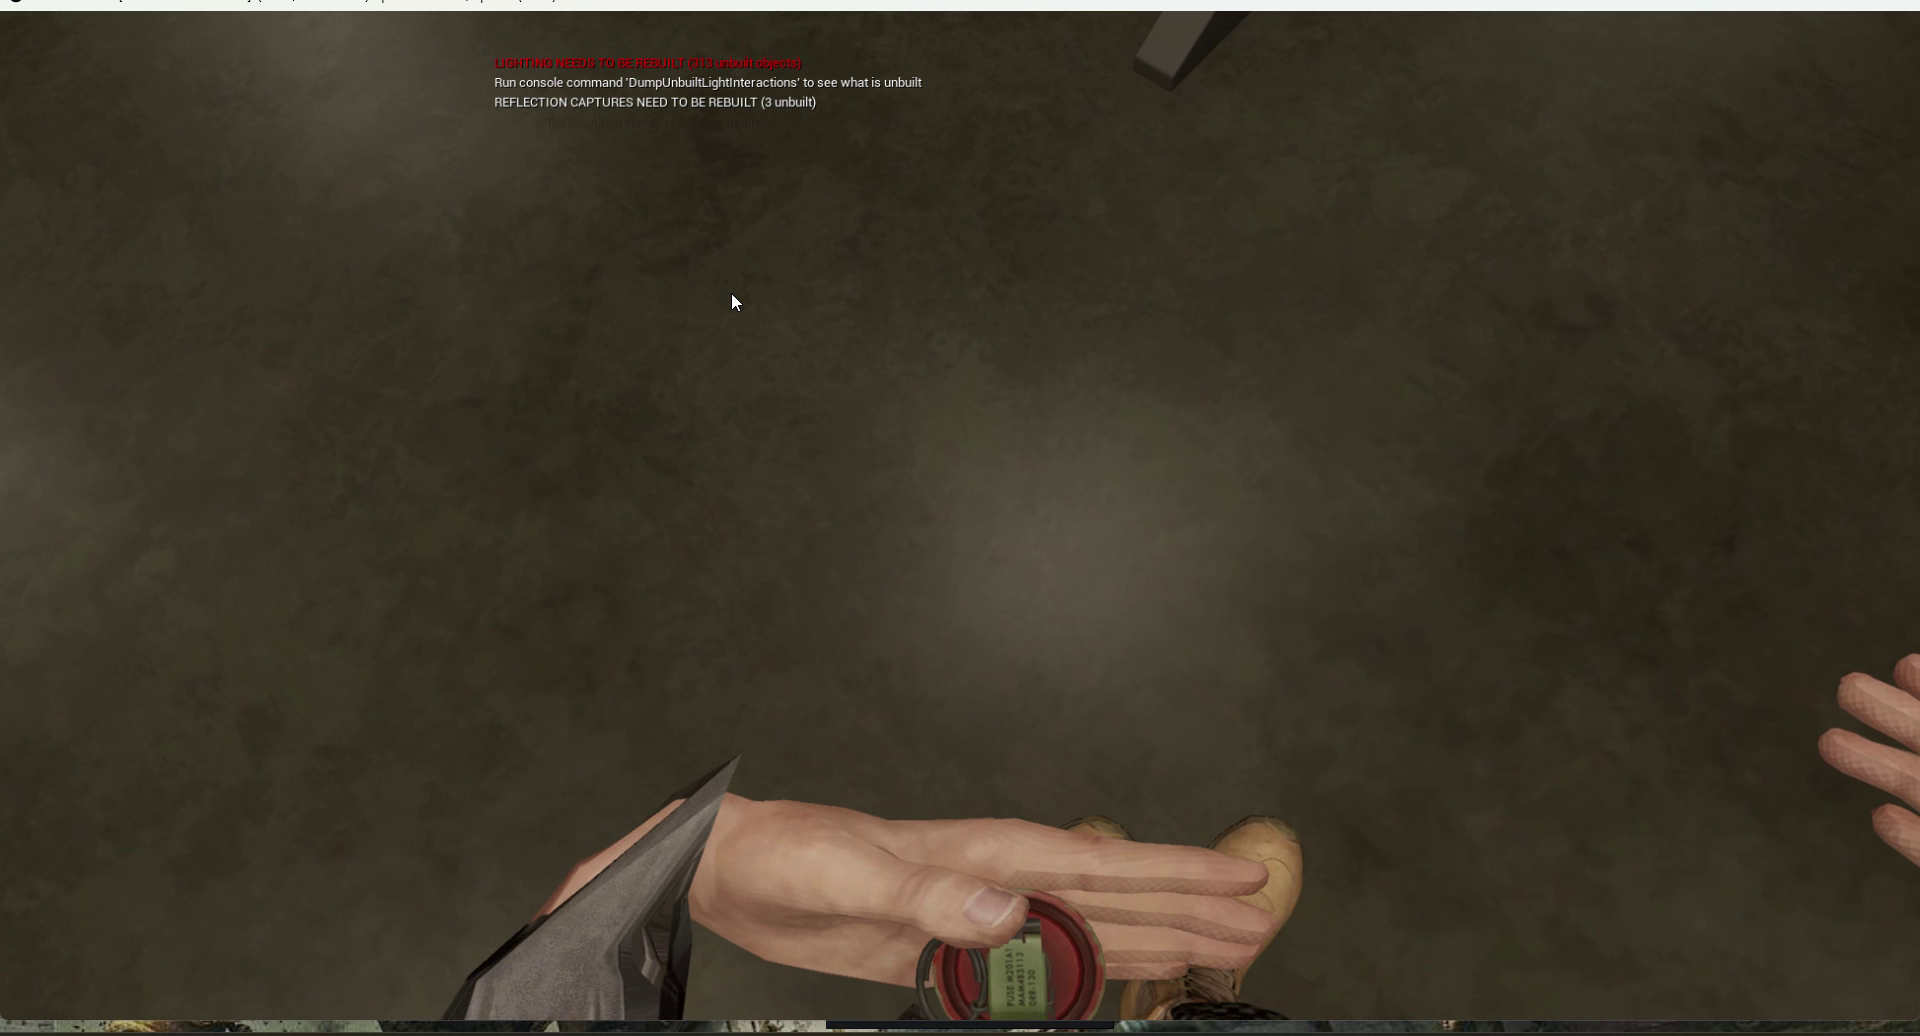
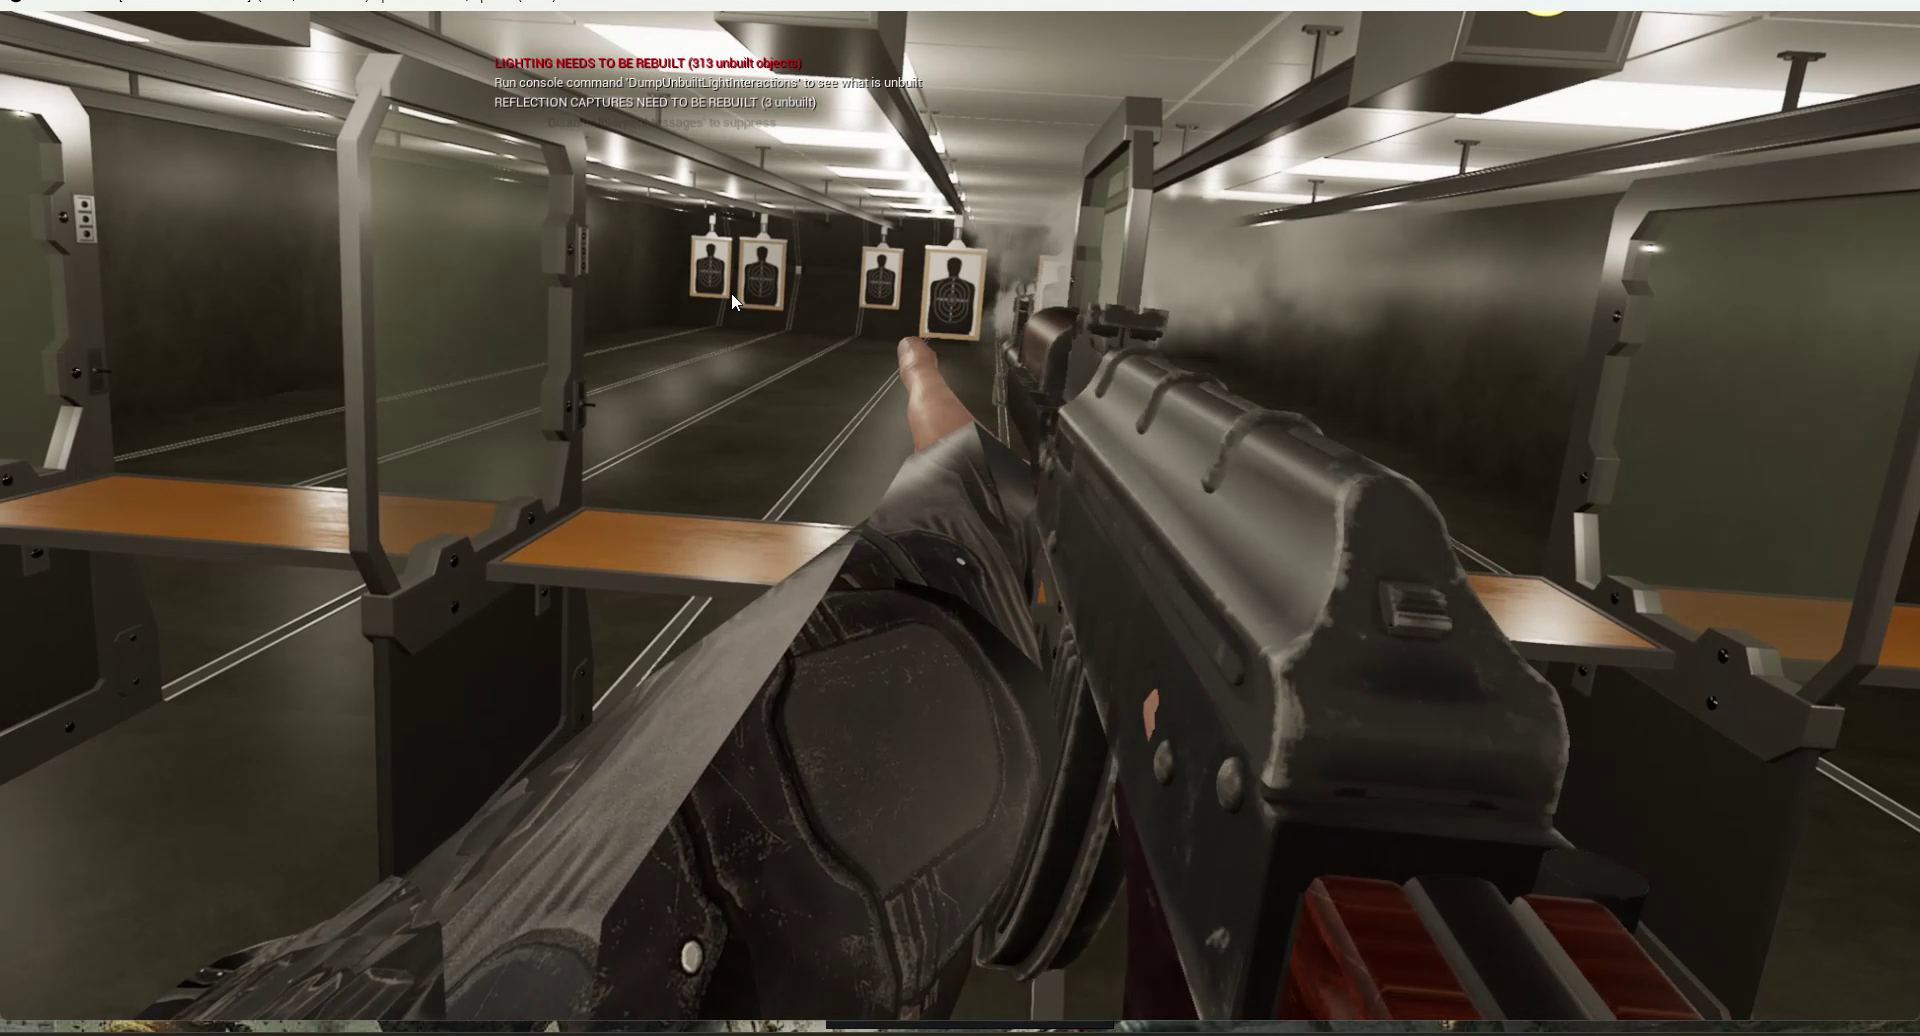
Update VR Shooting & UEFN Racing screenshots with specific gameplay scenes, reduce Snowy Mountain to single image, and rebuild portfolio PDF

diff --git a/js/data/siteData.js b/js/data/siteData.js
@@ -295,11 +295,7 @@ window.siteData = {
       videoAvailable: false,
       thumbnailPath: "assets/images/Base2.png",
       imagePaths: [
-        "assets/images/Base1.png",
         "assets/images/Base2.png",
-        "assets/images/Base3.png",
-        "assets/images/Base4.png",
-        "assets/images/Base5.png",
       ],
       links: [],
     },